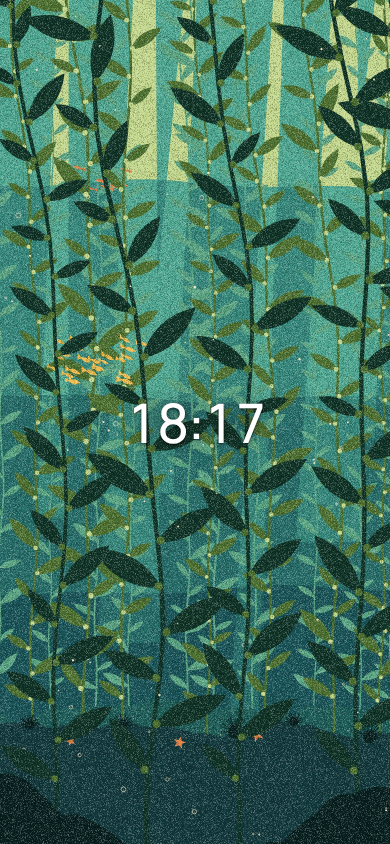
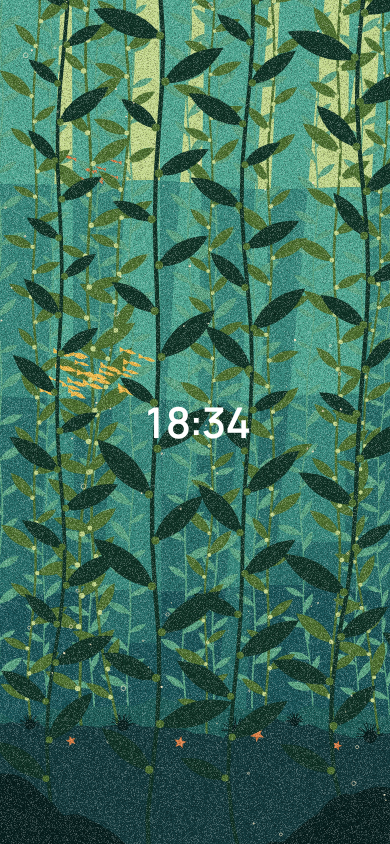
Add pinch sizing and swipe weight controls to the shadowless clock

diff --git a/live/player-local.js b/live/player-local.js
@@ -13,7 +13,9 @@ const CSS = `
   /* Artwork covers every edge, including the notch and home indicator. Only controls are inset. */
   .wz-player canvas, .wz-grain { position: absolute; inset: 0; width: 100%; height: 100%; display: block; touch-action: none; }
   .wz-grain { pointer-events: none; z-index: 2; }
-  .wz-clock { position: absolute; inset: 0; display: grid; place-items: center; z-index: 3; pointer-events: none; margin: 0; color: #fff; font: 500 clamp(40px, 14vmin, 180px)/1 "Manrope", "Inter", system-ui, sans-serif; font-variant-numeric: tabular-nums; letter-spacing: -.045em; white-space: nowrap; text-shadow: 0 2px 24px #0009, 0 1px 3px #000b; }
+  .wz-clock { position: absolute; inset: 0; display: grid; place-items: center; z-index: 3; pointer-events: none; margin: 0; color: #fff; font: 500 clamp(40px, 14vmin, 180px)/1 "Manrope", "Inter", system-ui, sans-serif; font-variant-numeric: tabular-nums; letter-spacing: -.045em; white-space: nowrap; text-shadow: none; }
+  .wz-clock-face { pointer-events: auto; touch-action: none; padding: 20px; cursor: ew-resize; }
+  .wz-clock-face:focus-visible { outline: 1px solid currentColor; outline-offset: -10px; border-radius: 12px; }
   .wz-clock[hidden] { display: none; }
   /* The bottom controls slide over the artwork and never reserve space in its canvas. */
   .wz-ui { position: absolute; bottom: 0; z-index: 3; box-sizing: border-box; display: flex; flex-direction: column; justify-content: center; gap: 2px; color: var(--ink); transition: color .7s, transform .38s cubic-bezier(.2, .7, .2, 1) 0s; }
@@ -56,7 +58,7 @@ const CSS = `
   .wz-ui label.muted .wz-mute { opacity: .5; text-decoration: line-through; }
   .wz-hud { position: absolute; left: 10px; top: 8px; font: 12px ui-monospace, monospace; color: #0e1c3a; background: rgba(242, 229, 195, .85); padding: 3px 7px; border-radius: 4px; white-space: pre-wrap; max-width: 92%; z-index: 3; pointer-events: none; }
 `;
-const HTML = `<canvas class="wz-scene"></canvas><div class="wz-grain"></div><time class="wz-clock" hidden></time>
+const HTML = `<canvas class="wz-scene"></canvas><div class="wz-grain"></div><time class="wz-clock" hidden><span class="wz-clock-face" tabindex="0" title="Pinch to resize. Swipe right for bolder text, left for lighter. Keyboard: + / − to resize; left / right arrows for weight."></span></time>
   <nav class="wz-ui off" aria-label="Poster controls"><div class="wz-row wz-r1"><a class="wz-home wz-it" style="--i:0" href="./" aria-label="Back to all posters"><svg class="wz-arrow" viewBox="0 0 24 14"><path d="M0 7 9 0v4.6h15v4.8H9V14z"/></svg><span class="wz-word">Posters</span></a><button class="wz-clock-toggle wz-it" style="--i:3" aria-pressed="false">Clock<em class="wz-word">off</em></button><button class="wz-full wz-it" style="--i:4" aria-label="Fullscreen" title="Fullscreen"><svg viewBox="0 0 20 20"><path d="M2 7V2h5M13 2h5v5M18 13v5h-5M7 18H2v-5"/></svg></button></div>
   <div class="wz-row wz-r2"><label class="wz-it" style="--i:1"><button class="wz-mute" data-bus="amb" title="Mute or unmute">Ambience</button><input class="wz-amb" type="range" min="0" max="1" step="0.01" aria-label="Ambience volume"></label><label class="wz-it" style="--i:2"><button class="wz-mute" data-bus="mus" title="Mute or unmute">Music</button><input class="wz-mus" type="range" min="0" max="1" step="0.01" aria-label="Music volume"><button class="wz-trk" title="Next track">A</button></label></div></nav><div class="wz-hud" hidden></div>`;
 const title = (scene) => 'WAVZ: ' + scene.title.toLowerCase().replace(/\b[a-z]+/g, (w, i) => (i && ['at', 'of', 'the', 'in'].includes(w) ? w : w[0].toUpperCase() + w.slice(1)));
@@ -99,7 +101,7 @@ export function openScene(first, { from = null, home = null, at = null } = {}) {
     scene.style.width = final ? '' : fw + 'px'; scene.style.height = final ? '' : fh + 'px';
     const w = final ? bw : r.width * s, h = final ? bh : r.height * s, st = final || !mix ? cur : mix;
     L = makeLayout(w / h, SCENES[name], { dark: st.d, frame: st.f, mix: final ? null : mix }); k = w / L.VW;
-    if (final) dock(r.width);
+    if (final) { dock(r.width); fitClock(); }
   }
   // Controls overlay the art and alone respect the notch and home indicator.
   function dock(w) {
@@ -123,10 +125,30 @@ export function openScene(first, { from = null, home = null, at = null } = {}) {
   }
 
   // ---- clock: local time, off by default, remembered across posters and sessions.
-  const clock = $('wz-clock'), clockToggle = $('wz-clock-toggle');
+  const clock = $('wz-clock'), clockFace = $('wz-clock-face'), clockToggle = $('wz-clock-toggle');
   clock.id = 'wz-clock-' + ++clockId; clockToggle.setAttribute('aria-controls', clock.id);
   const clockFormat = new Intl.DateTimeFormat(undefined, { hour: 'numeric', minute: '2-digit' });
   let clockOn = localStorage.getItem('wavz-clock') === '1', clockTimer = 0;
+  const clamp = (value, min, max) => Math.max(min, Math.min(max, value));
+  const savedNumber = (key, fallback, min, max) => {
+    const saved = localStorage.getItem(key), value = saved === null ? fallback : Number(saved);
+    return clamp(Number.isFinite(value) ? value : fallback, min, max);
+  };
+  let clockScale = savedNumber('wavz-clock-scale', 1, .5, 4), clockWeight = savedNumber('wavz-clock-weight', 500, 200, 800);
+  function fitClock() {
+    clockFace.style.fontWeight = String(clockWeight);
+    if (!clockOn || closed) return;
+    const size = clamp(Math.min(root.clientWidth, root.clientHeight) * .14, 40, 180) * clockScale;
+    clockFace.style.fontSize = size + 'px';
+    // Keep even a large clock inside the art, including locales that display AM/PM.
+    const width = clockFace.getBoundingClientRect().width - 40, height = size;
+    const fit = Math.min(1, (root.clientWidth * .92 - 40) / Math.max(1, width), (root.clientHeight * .9 - 40) / height);
+    if (fit < 1) clockFace.style.fontSize = Math.max(1, size * fit) + 'px';
+  }
+  const saveClockStyle = () => {
+    localStorage.setItem('wavz-clock-scale', String(clockScale));
+    localStorage.setItem('wavz-clock-weight', String(clockWeight));
+  };
   function updateClock() {
     clearTimeout(clockTimer);
     clock.hidden = !clockOn;
@@ -135,14 +157,66 @@ export function openScene(first, { from = null, home = null, at = null } = {}) {
     clockToggle.setAttribute('aria-label', 'Clock: ' + (clockOn ? 'on' : 'off'));
     if (!clockOn || closed) return;
     const now = new Date();
-    clock.textContent = clockFormat.format(now); clock.dateTime = now.toISOString();
-    clock.setAttribute('aria-label', 'Current time: ' + clock.textContent);
+    clockFace.textContent = clockFormat.format(now); clock.dateTime = now.toISOString();
+    clock.setAttribute('aria-label', 'Current time: ' + clockFace.textContent);
+    fitClock();
     clockTimer = setTimeout(updateClock, 60000 - (now.getSeconds() * 1000 + now.getMilliseconds()) + 25);
   }
-  clockToggle.addEventListener('click', () => { clockOn = !clockOn; localStorage.setItem('wavz-clock', clockOn ? '1' : '0'); updateClock(); });
+  // Capture gestures that start on the clock; a second finger may land beside it.
+  const fingers = new Map();
+  let gesture = null, pinched = false;
+  const distance = () => { const [a, b] = [...fingers.values()]; return Math.hypot(b.x - a.x, b.y - a.y); };
+  const beginGesture = () => {
+    if (fingers.size >= 2) { pinched = true; gesture = { distance: Math.max(1, distance()), scale: clockScale }; }
+    else if (fingers.size === 1 && !pinched) { const [p] = fingers.values(); gesture = { x: p.x, y: p.y, weight: clockWeight }; }
+    else gesture = null;
+  };
+  const stopClockGesture = () => {
+    const ids = [...fingers.keys()]; fingers.clear(); gesture = null; pinched = false;
+    for (const id of ids) if (root.hasPointerCapture(id)) root.releasePointerCapture(id);
+    saveClockStyle();
+  };
+  root.addEventListener('pointerdown', (e) => {
+    if (!clockOn || flight || e.button !== 0 || ui.contains(e.target)) return;
+    if (!clockFace.contains(e.target) && !fingers.size) return;
+    if (fingers.size >= 2) return;
+    e.preventDefault(); fingers.set(e.pointerId, { x: e.clientX, y: e.clientY });
+    root.setPointerCapture(e.pointerId); beginGesture();
+  });
+  root.addEventListener('pointermove', (e) => {
+    if (!fingers.has(e.pointerId)) return;
+    e.preventDefault(); fingers.set(e.pointerId, { x: e.clientX, y: e.clientY });
+    if (!gesture) return;
+    if (fingers.size === 2) clockScale = clamp(gesture.scale * distance() / gesture.distance, .5, 4);
+    else {
+      const dx = e.clientX - gesture.x, dy = e.clientY - gesture.y;
+      if (Math.abs(dx) < 8 || Math.abs(dx) < Math.abs(dy)) return;
+      clockWeight = Math.round(clamp(gesture.weight + dx * 2, 200, 800));
+    }
+    fitClock();
+  });
+  const finishGesture = (e) => {
+    if (!fingers.delete(e.pointerId)) return;
+    if (root.hasPointerCapture(e.pointerId)) root.releasePointerCapture(e.pointerId);
+    if (!fingers.size) { gesture = null; pinched = false; saveClockStyle(); }
+    else beginGesture();
+  };
+  for (const type of ['pointerup', 'pointercancel', 'lostpointercapture']) root.addEventListener(type, finishGesture);
+  clockFace.addEventListener('wheel', (e) => {
+    if (!e.ctrlKey || !clockOn) return;
+    e.preventDefault(); clockScale = clamp(clockScale * Math.exp(-e.deltaY * .01), .5, 4); fitClock(); saveClockStyle();
+  }, { passive: false });
+  clockFace.addEventListener('keydown', (e) => {
+    if (['ArrowLeft', 'ArrowRight'].includes(e.key)) clockWeight = clamp(clockWeight + (e.key === 'ArrowRight' ? 50 : -50), 200, 800);
+    else if (['+', '=', '-', '−'].includes(e.key)) clockScale = clamp(clockScale * (['+', '='].includes(e.key) ? 1.1 : 1 / 1.1), .5, 4);
+    else return;
+    e.preventDefault(); fitClock(); saveClockStyle();
+  });
+  clockToggle.addEventListener('click', () => { stopClockGesture(); clockOn = !clockOn; localStorage.setItem('wavz-clock', clockOn ? '1' : '0'); updateClock(); });
   const resumeClock = () => { if (document.visibilityState === 'visible') updateClock(); };
   document.addEventListener('visibilitychange', resumeClock);
   updateClock();
+  document.fonts.ready.then(() => { if (!closed) fitClock(); });
 
   // ---- growing out of, and shrinking back into, a rectangle on the page. The poster is recomposed on every frame of
   // the flight, so it reflows into the screen's shape as it travels rather than being stretched.
@@ -199,7 +273,7 @@ export function openScene(first, { from = null, home = null, at = null } = {}) {
   // the screen is kept awake while a scene is up, where the browser allows it: these are made to be left running
   let awake = null; const wake2 = () => { if (!closed && document.visibilityState === 'visible') navigator.wakeLock?.request('screen').then((w) => { awake = w; }, () => {}); };
   wake2(); document.addEventListener('visibilitychange', wake2);
-  root.addEventListener('dblclick', (e) => { if (!ui.contains(e.target)) toggleFull(); });
+  root.addEventListener('dblclick', (e) => { if (!ui.contains(e.target) && !clockFace.contains(e.target)) toggleFull(); });
   if (home) $('wz-home').addEventListener('click', (e) => { e.preventDefault(); home(); });
   const esc = (e) => { if (e.key === 'Escape' && !isFull() && !flight) $('wz-home').click(); };
   addEventListener('keydown', esc);
@@ -255,6 +329,7 @@ export function openScene(first, { from = null, home = null, at = null } = {}) {
   requestAnimationFrame(tick);
 
   function end() {
+    stopClockGesture();
     closed = true; awake?.release().catch(() => {}); document.removeEventListener('visibilitychange', wake2); sound?.stop(); clearTimeout(hide); clearTimeout(pending); clearTimeout(clockTimer); document.removeEventListener('visibilitychange', resumeClock);
     for (const [t, type] of listen) t.removeEventListener(type, refit);
     removeEventListener('keydown', show); removeEventListener('keydown', esc); root.remove();

diff --git a/README.md b/README.md
@@ -18,7 +18,7 @@ Open `http://localhost:8000/`. Open an individual poster using `?scene=beach`, f
 
 Opening a poster fills the entire viewport with artwork, including the safe areas beneath a phone's status bar, notch and home indicator. The bottom controls overlay the artwork and respect those safe areas; hiding them leaves no reserved strip. This applies to browser playback, native fullscreen and the standalone PWA. The gallery-to-player transition removes the thumbnail's frame. Browsers with the DOM Fullscreen API can hide their browser chrome; iPhone Safari keeps its own browser bars, while the installed PWA fills the screen. The old iPhone video-player workaround is removed to avoid its letterboxing and preserve the app's controls.
 
-The bottom bar's **Clock** button toggles a local-time clock centered over the artwork. It is off by default, remembers the setting across posters and reloads, updates on the minute and refreshes when the app resumes. The frame chooser has been replaced by the clock toggle so playback always stays edge to edge. [View the clock and edge-to-edge artwork](docs/player-clock-preview.png).
+The bottom bar's **Clock** button toggles a local-time clock centered over the artwork. It is off by default, remembers the setting across posters and reloads, updates on the minute and refreshes when the app resumes. The text has no shadow. Pinch on the clock to resize it; swipe right to make it bolder or left to make it lighter, using Manrope's full 200–800 variable weight range. Size and weight stay saved across posters and reloads. Trackpad pinch also resizes it; with the clock focused, use +/− for size and left/right arrows for weight. The frame chooser has been replaced by the clock toggle so playback always stays edge to edge. [View the clock and edge-to-edge artwork](docs/player-clock-preview.png).
 
 **Inter** (weights 100–900) and **Manrope** (weights 200–800) are variable Google Fonts. The Latin WOFF2 files are self-hosted under [`live/fonts/`](live/fonts/) with their SIL Open Font Licenses and source URLs. Inter supplies interface text; Manrope supplies headings, gallery poster titles and the clock. Font loading requires no Google connection at runtime.
 
